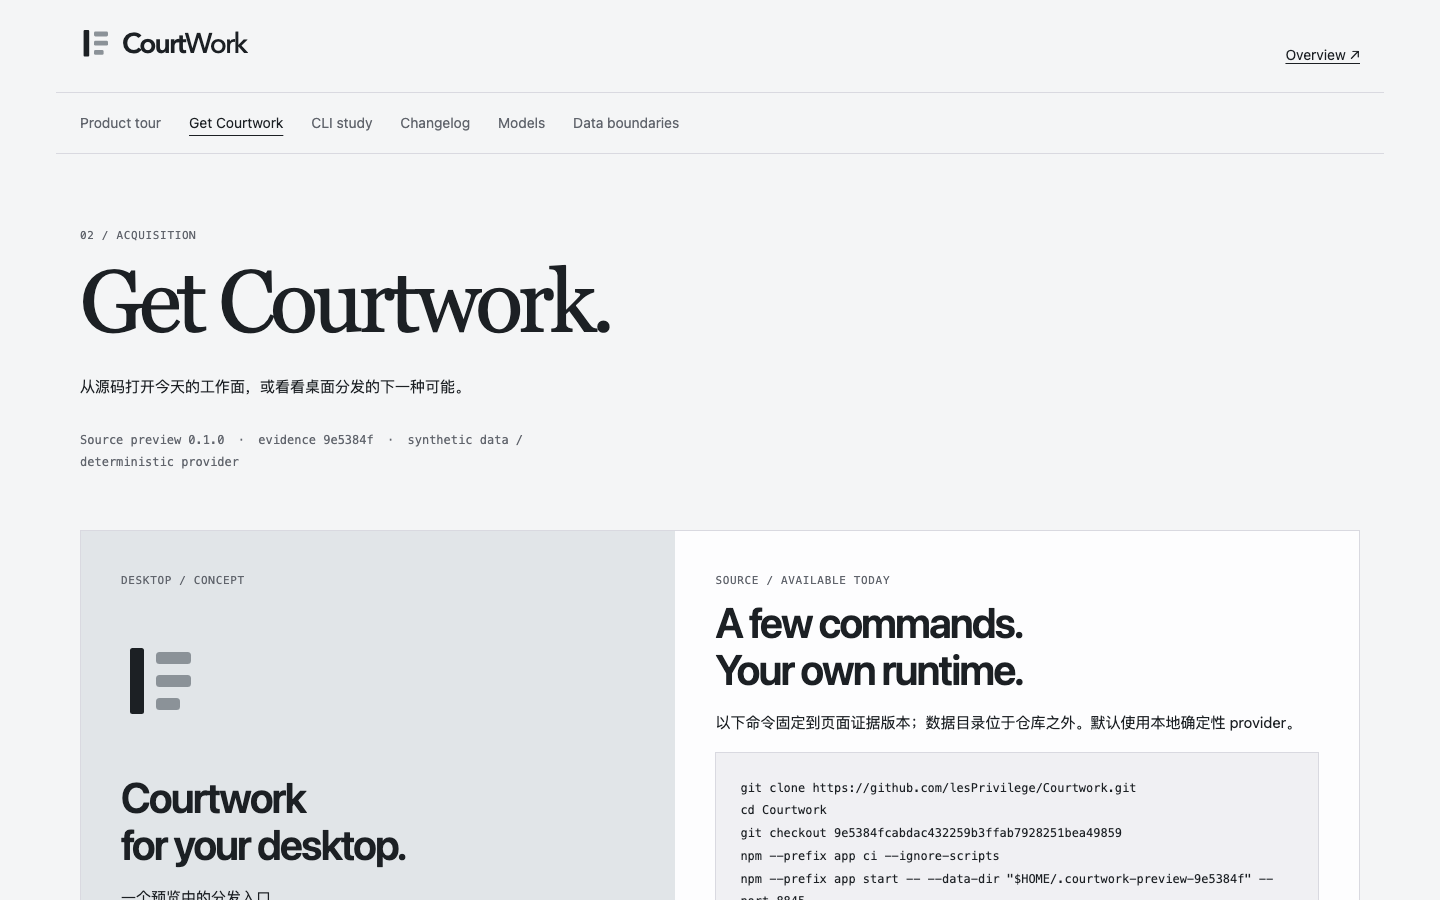
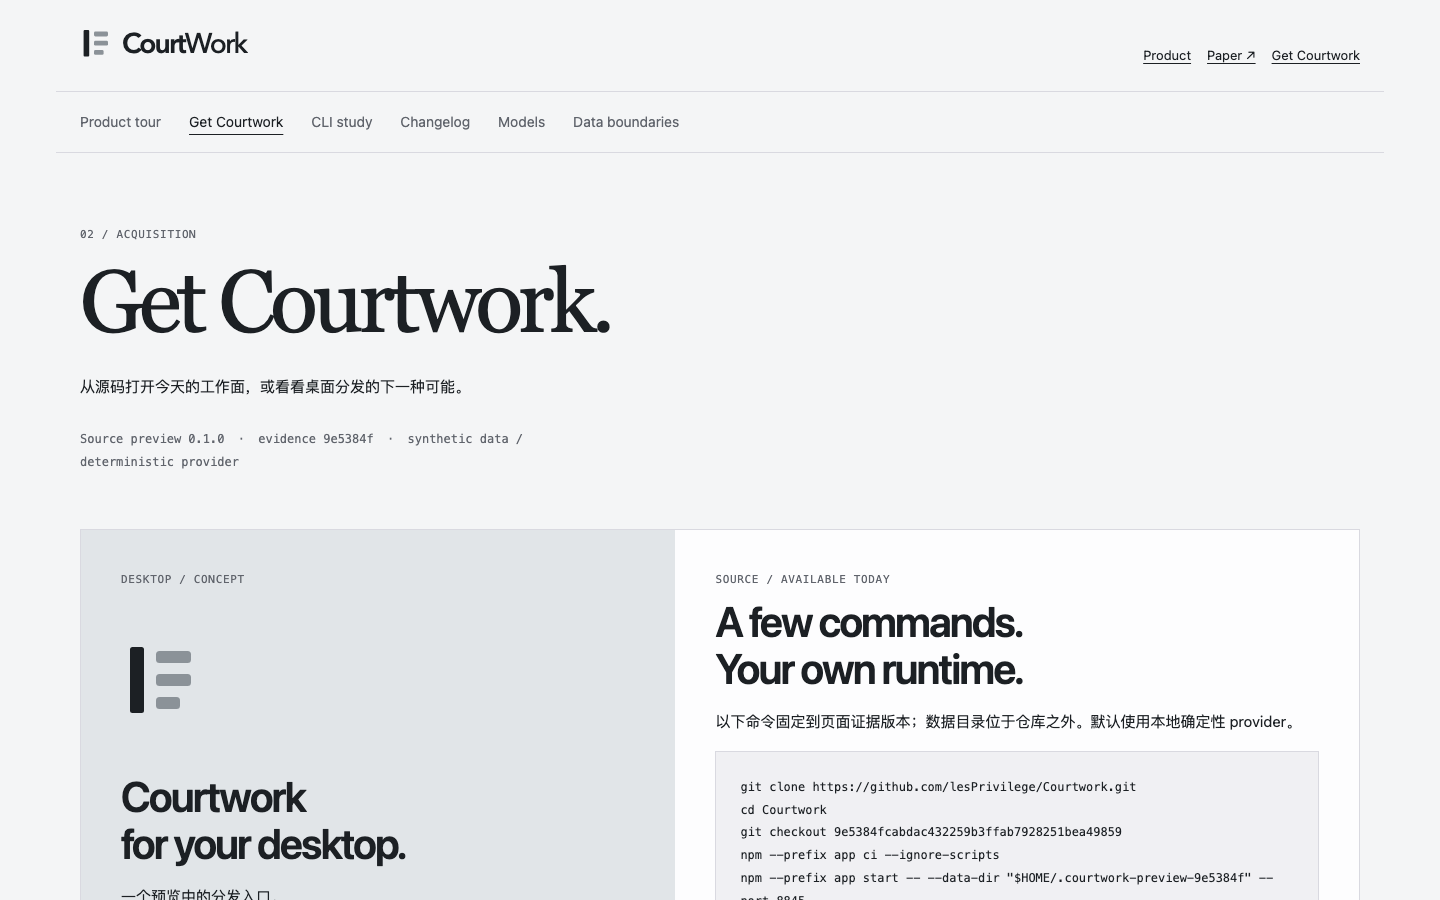
Promote Paper to primary navigation and research foundation

diff --git a/site/src/site.css b/site/src/site.css
@@ -711,3 +711,13 @@ h2 { font-size: clamp(30px, 4.4vw, 58px); max-width: 23ch; line-height: 1.12; le
 @media (forced-colors: active) { .brand-icon rect:not(:first-child) { fill: CanvasText; } }
 
 .product-footer-links { display: flex; flex-wrap: wrap; gap: 12px 24px; margin-bottom: 24px; font-size: 14px; }
+
+/* Paper is a primary research entrance, alongside product and acquisition. */
+.global-nav { display: flex; flex-wrap: wrap; gap: 12px 28px; font-size: 14px; }
+.paper-entry { display: grid; grid-template-columns: 1fr 1fr; gap: 56px; margin-top: 88px; padding: 40px 0; border-top: 1px solid var(--line-strong); border-bottom: 1px solid var(--line); }
+.paper-entry h2 { font-family: var(--campaign-serif); font-size: clamp(32px, 4vw, 52px); font-weight: 400; letter-spacing: -.04em; }
+.paper-entry .index { font-size: 12px; margin-bottom: 20px; }
+.paper-entry p { margin-top: 0; }
+.paper-links { display: flex; flex-wrap: wrap; gap: 16px 24px; font-size: 14px; }
+.paper-links .paper-read { flex-basis: 100%; font-size: 18px; font-weight: 500; }
+@media (max-width: 700px) { .paper-entry { grid-template-columns: 1fr; gap: 20px; margin-top: 56px; } }

diff --git a/evidence/pages-product-life-20260910/README.md b/evidence/pages-product-life-20260910/README.md
@@ -24,3 +24,11 @@
 Home完工后按现有同SHA取证合同统一更新媒体、标本、benchmark，禁止仅替换PNG。新页面可本地预览；本单不部署，不把前一版发布回执套给本版。不改变产品schema、G1–G5或品牌glyph选向。
 
 作者验证结果：子页36/36、首页18/18、公开数据3/3、固定来源/子路径链接与材质守卫通过。六页1440深浅主题、390/200%均无横向溢出；两次构建manifest一致。CLI无JS隐藏form并禁用命令按钮，避免原生GET意外提交输入。
+
+## Paper提级
+
+用户要求考虑Paper提级，Astra将其调整为全站一级入口：主导航Product / Paper / Get Courtwork，首页Hero后增加Research foundation栏，连接论文、固定采用基线9.6与实现证据。论文继续在Schema-Engineering独立编订，最新阅读入口与采用的canonical SHA分别展示；不复制或修改论文正文，不将产品进展当论文证明。
+
+Luna独立只读复核此前六页的JS/素材/链接：未发现当前输入进入HTML、shell或任意URL路径，下载与无JS退化边界成立；未执行子页浏览器，故36项仍归Astra作者验证。指出常量标题插入若未来改外部输入需统一转义，以及commit存在校验不证明全部diff文案；本轮历史内容另由固定源码核对。
+
+Paper布局复验：18/18首页、36/36子页通过。首页新增研究栏后回放iframe更远离首屏，旧验证脚本等待lazy frame会停住；改为像访客一样滚到iframe后等待load，并给等待增加超时，不取消产品lazy加载。
